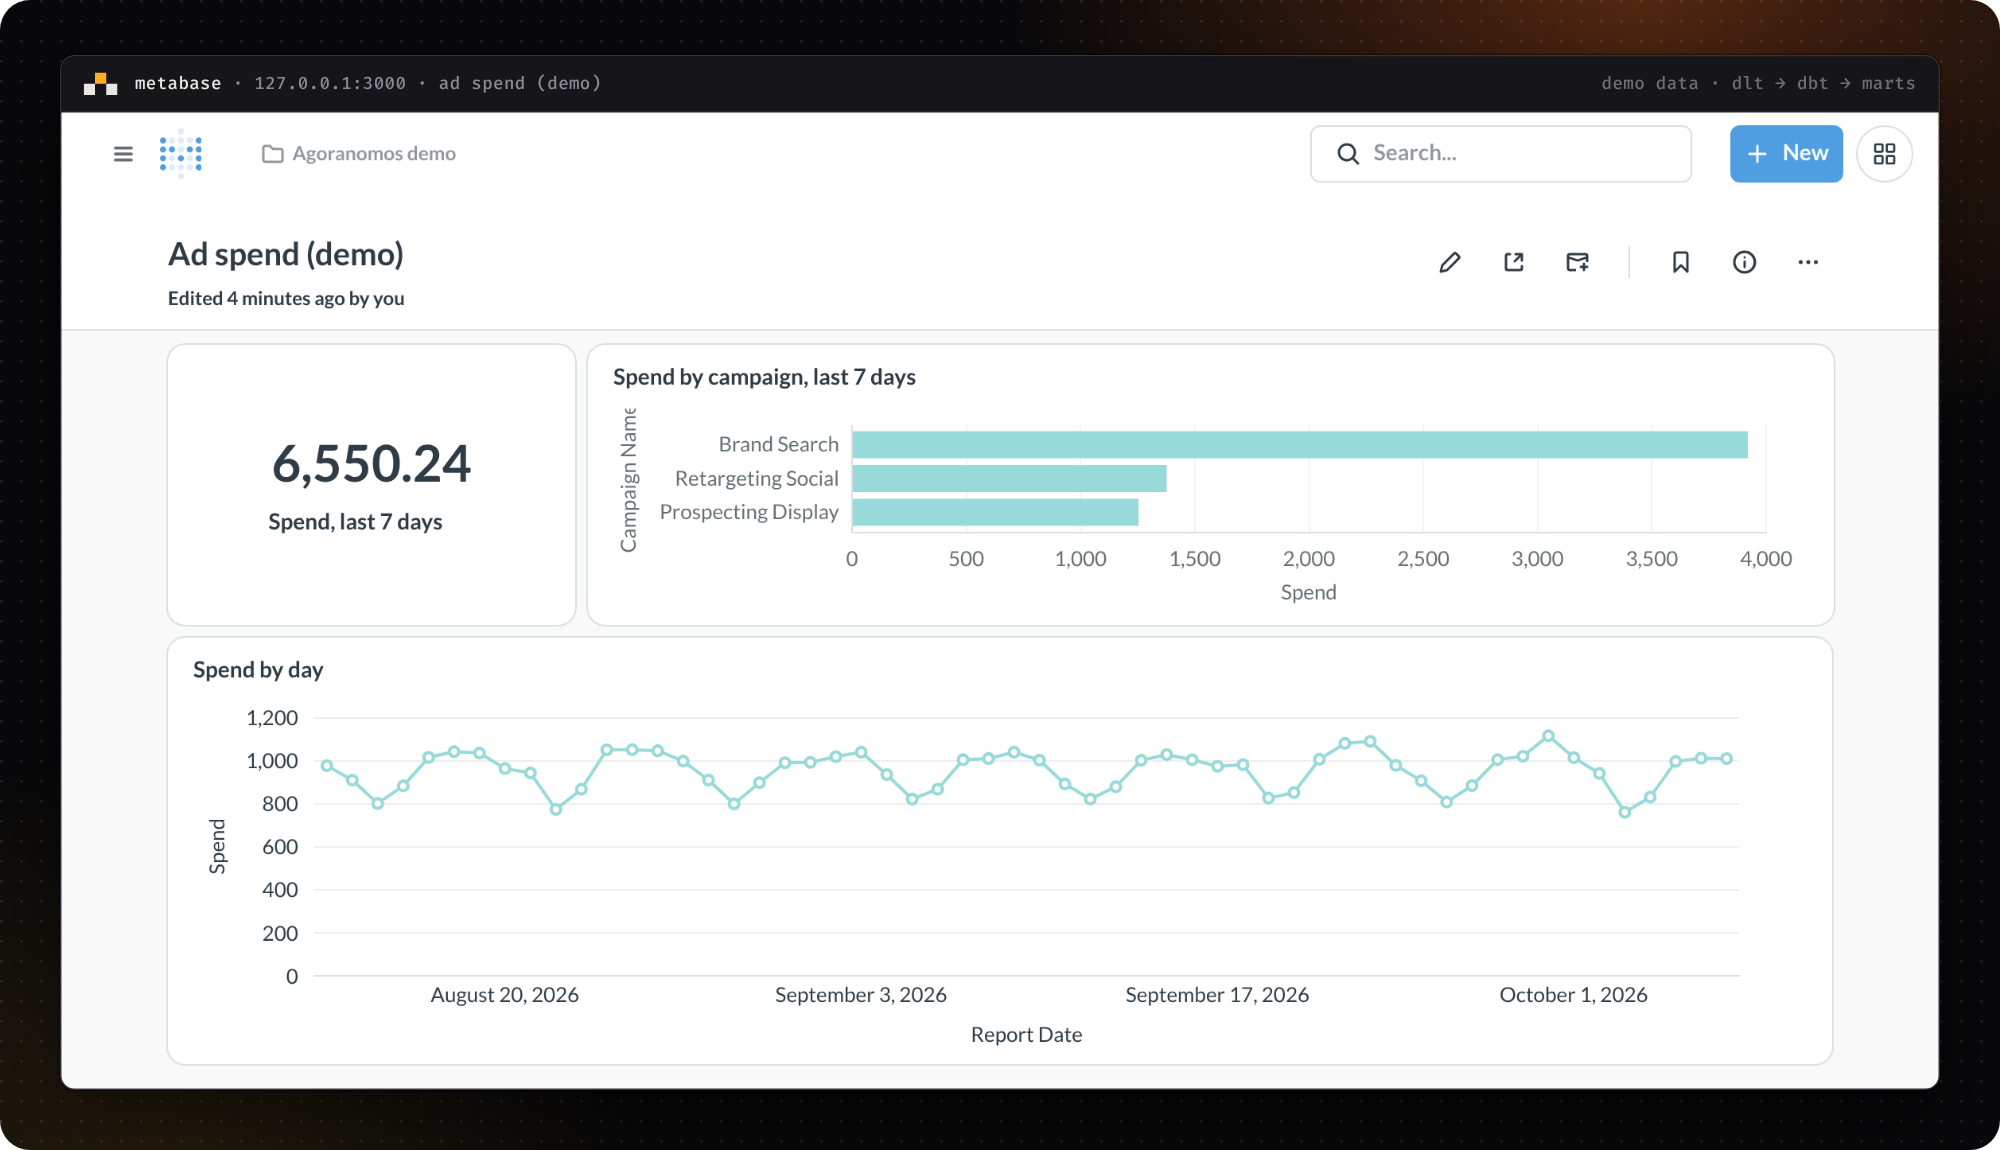
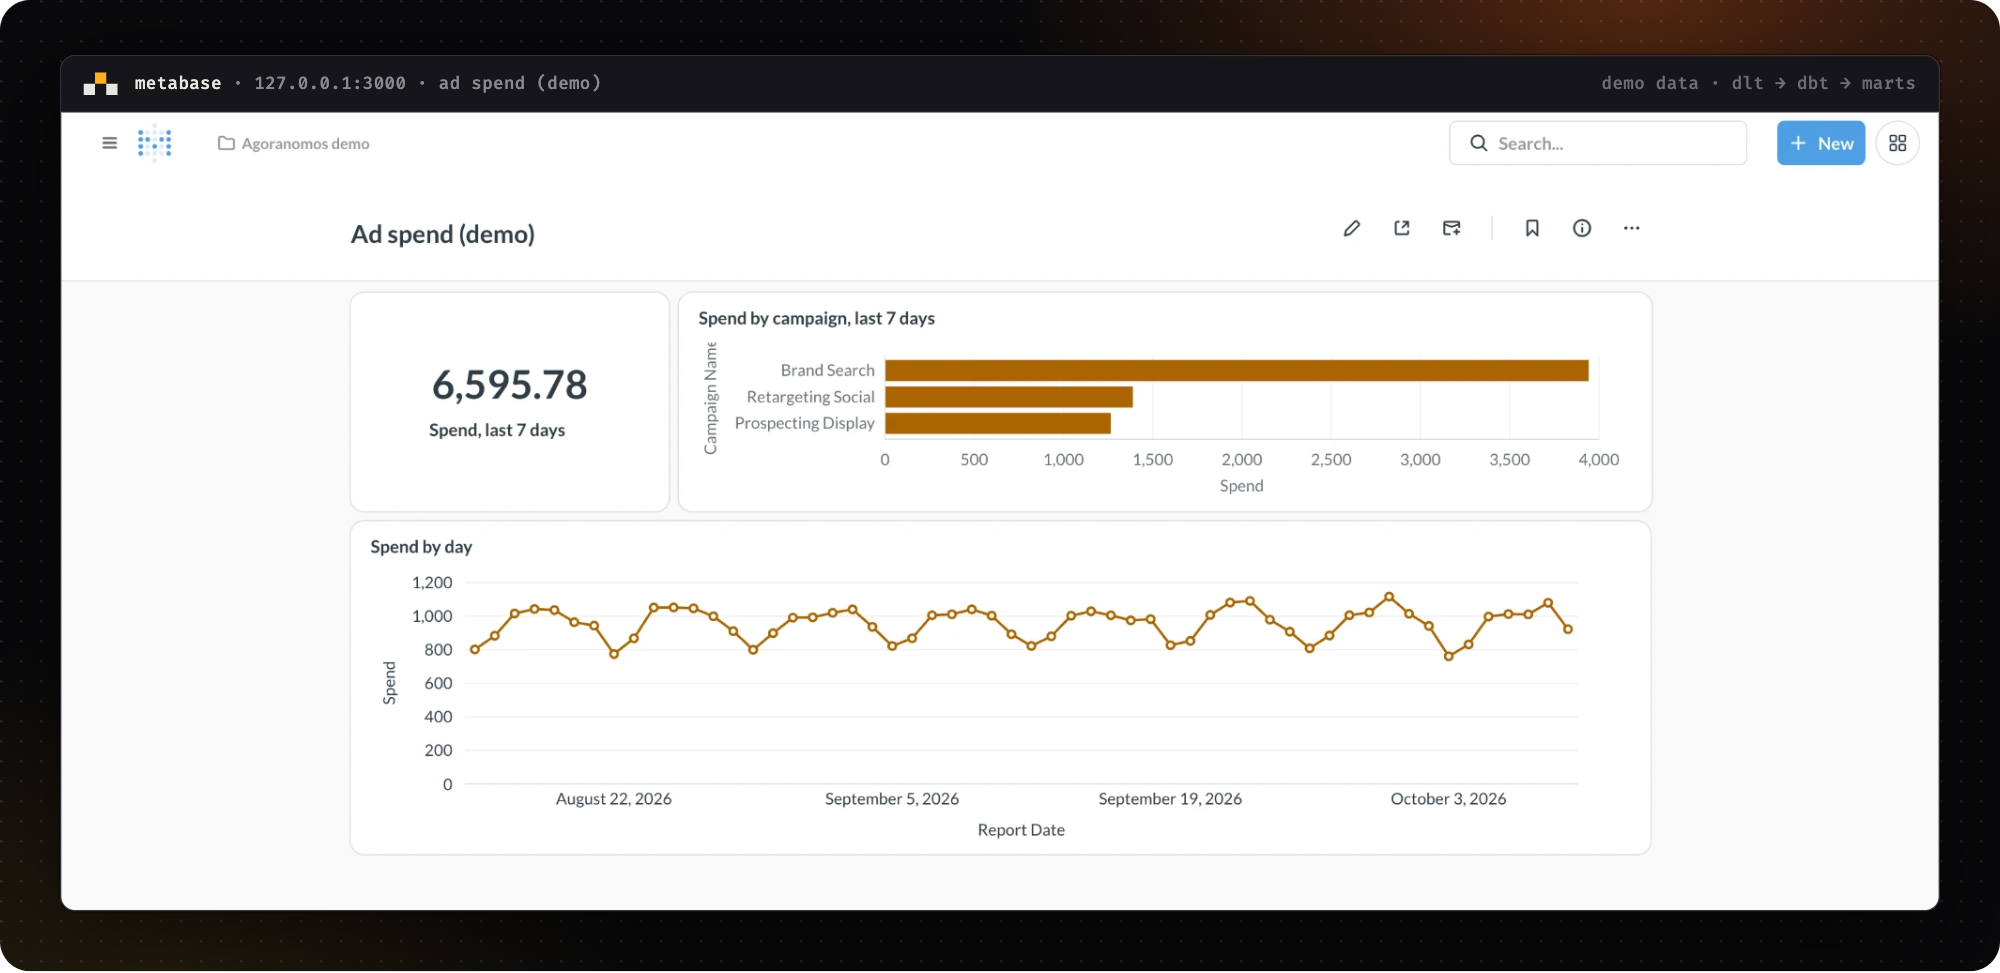
docs: show the demo dashboard in the colors of the project, in light and dark (#47)
The new screenshots come from a stack of main with the brand colors of
the demo charts, in the light and the dark theme of Metabase, framed
with the brand tooling. The README picks the one for the theme of
GitHub, as it does for the banner and the diagram.

diff --git a/README.ru.md b/README.ru.md
@@ -31,7 +31,10 @@
 > **Pre-alpha.** Локальный режим запускается из ветки main, а демо проходит весь путь — от демо-источника до дашборда. Серверный режим и резервные копии строятся сейчас, коннекторы к настоящим источникам и доступ AI-клиентов появятся после них. Репозиторий приватный до версии v0.3.
 
 <p align="center">
-  <img alt="Демо-дашборд Ad spend (demo) в Metabase: расходы за последние семь дней, всего и по кампаниям, и расходы по дням" src="docs/assets/readme/demo-dashboard.png" width="100%">
+  <picture>
+    <source media="(prefers-color-scheme: dark)" srcset="docs/assets/readme/demo-dashboard-dark.png">
+    <img alt="Демо-дашборд Ad spend (demo) в Metabase: расходы за последние семь дней, всего и по кампаниям, и расходы по дням" src="docs/assets/readme/demo-dashboard.png" width="100%">
+  </picture>
 </p>
 <p align="center"><sub>Демо-дашборд, который первый запуск строит из демо-источника через dlt, dbt и Metabase. Ни аккаунты, ни ключи не нужны.</sub></p>
 

diff --git a/README.md b/README.md
@@ -31,7 +31,10 @@
 > **Pre-alpha.** Local mode runs from the main branch, and the demo goes end to end, from a demo source to a dashboard. Server mode and backups are being built, and the connectors to real sources and AI access come after them. The repository is private until v0.3.
 
 <p align="center">
-  <img alt="The demo dashboard Ad spend (demo) in Metabase: the spend of the last seven days, in total and by campaign, and the spend of every day" src="docs/assets/readme/demo-dashboard.png" width="100%">
+  <picture>
+    <source media="(prefers-color-scheme: dark)" srcset="docs/assets/readme/demo-dashboard-dark.png">
+    <img alt="The demo dashboard Ad spend (demo) in Metabase: the spend of the last seven days, in total and by campaign, and the spend of every day" src="docs/assets/readme/demo-dashboard.png" width="100%">
+  </picture>
 </p>
 <p align="center"><sub>The demo dashboard, which the first start builds from a demo source through dlt, dbt and Metabase. No accounts or keys needed.</sub></p>
 
